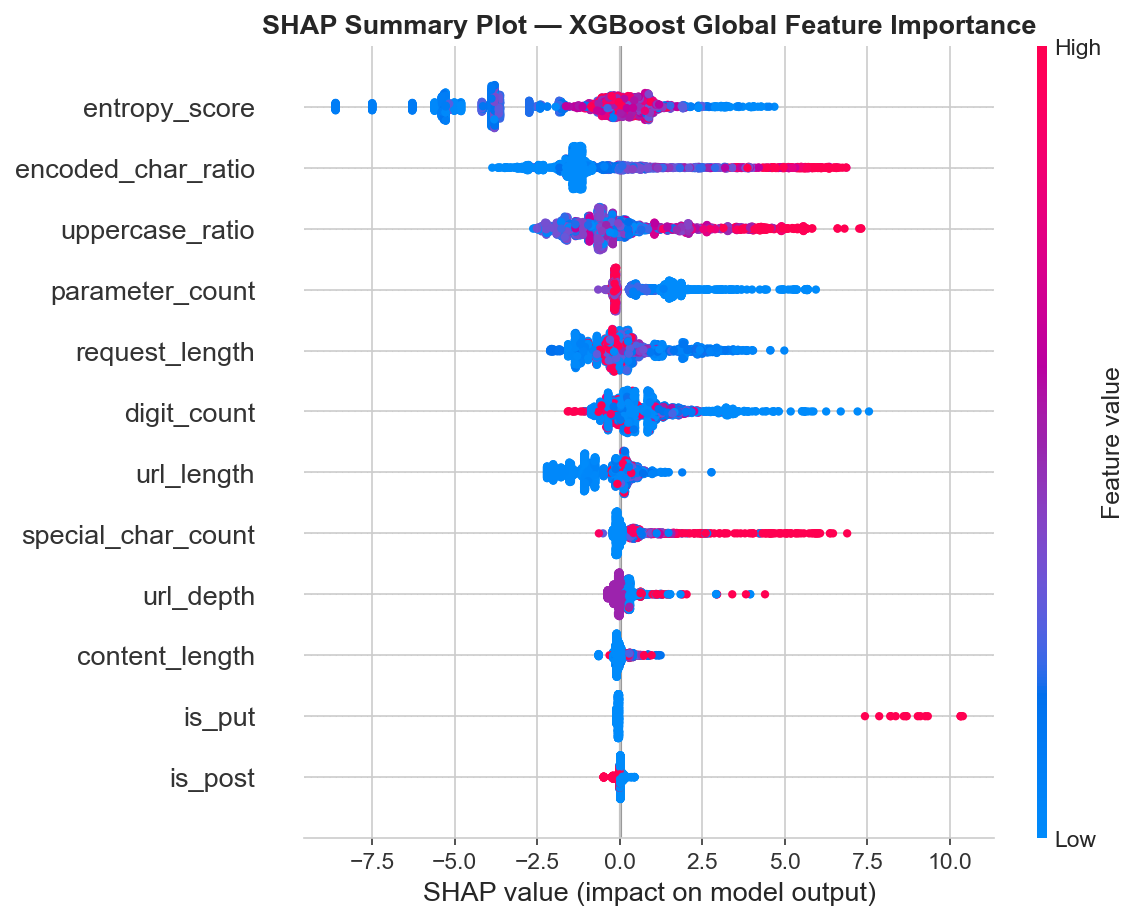
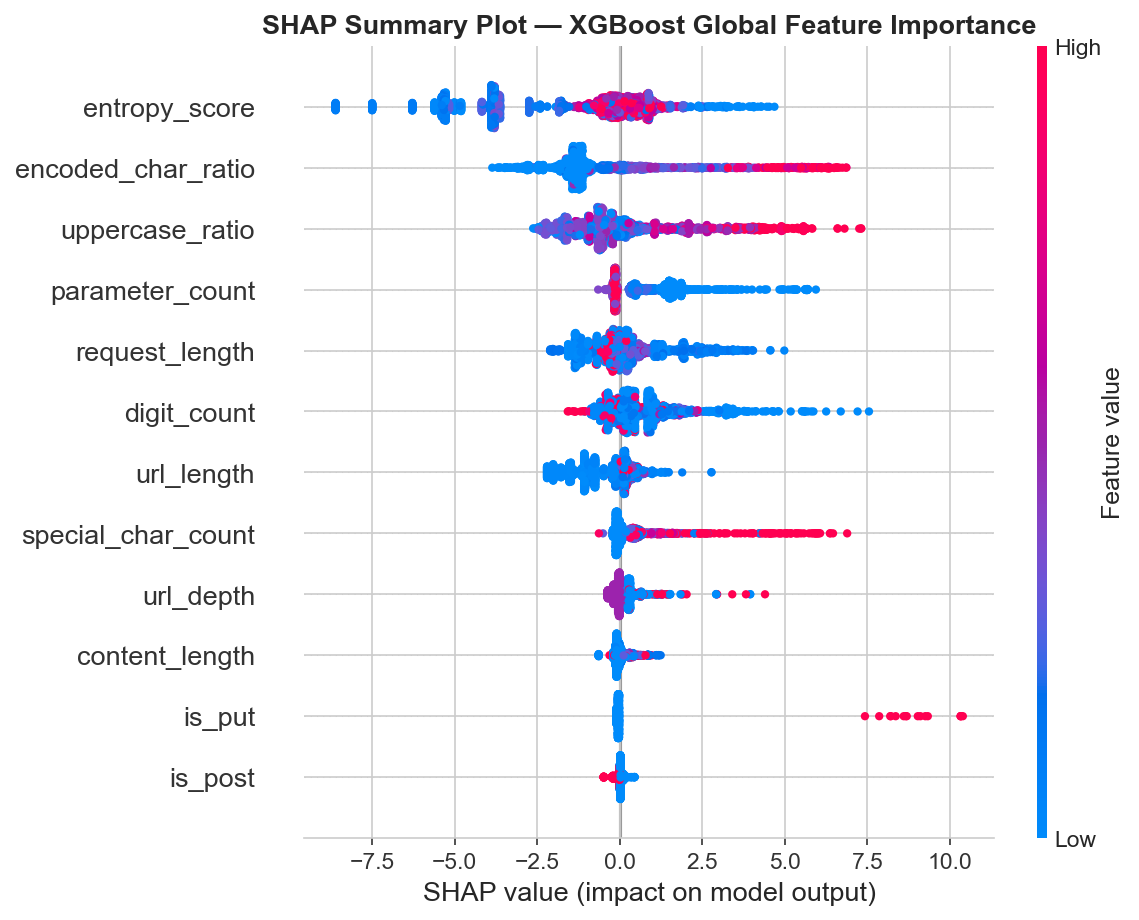
Final teslim: Readme dosyası ve requirements dosyası düzeltildi

diff --git a/README.md b/README.md
@@ -11,7 +11,7 @@ Bu projede, bir e-ticaret web uygulamasına gönderilen **61.065 HTTP request** 
 ### 🎯 Temel Hedefler
 - **4 farklı veri kaynağının** anlamlı birleştirilmesi (Data Fusion)
 - HTTP request'lerden **12 iş mantığına dayalı feature** türetilmesi
-- Random Forest ve XGBoost ile **%94 doğrulukla** saldırı tespiti
+- - Random Forest, XGBoost ve LightGBM ile **%94 doğrulukla** saldırı tespiti
 - **KVKK ceza verileriyle** maliyet/fayda simülasyonu ve optimal threshold belirleme
 - **SHAP** ile model kararlarının açıklanabilir hale getirilmesi
 - ---